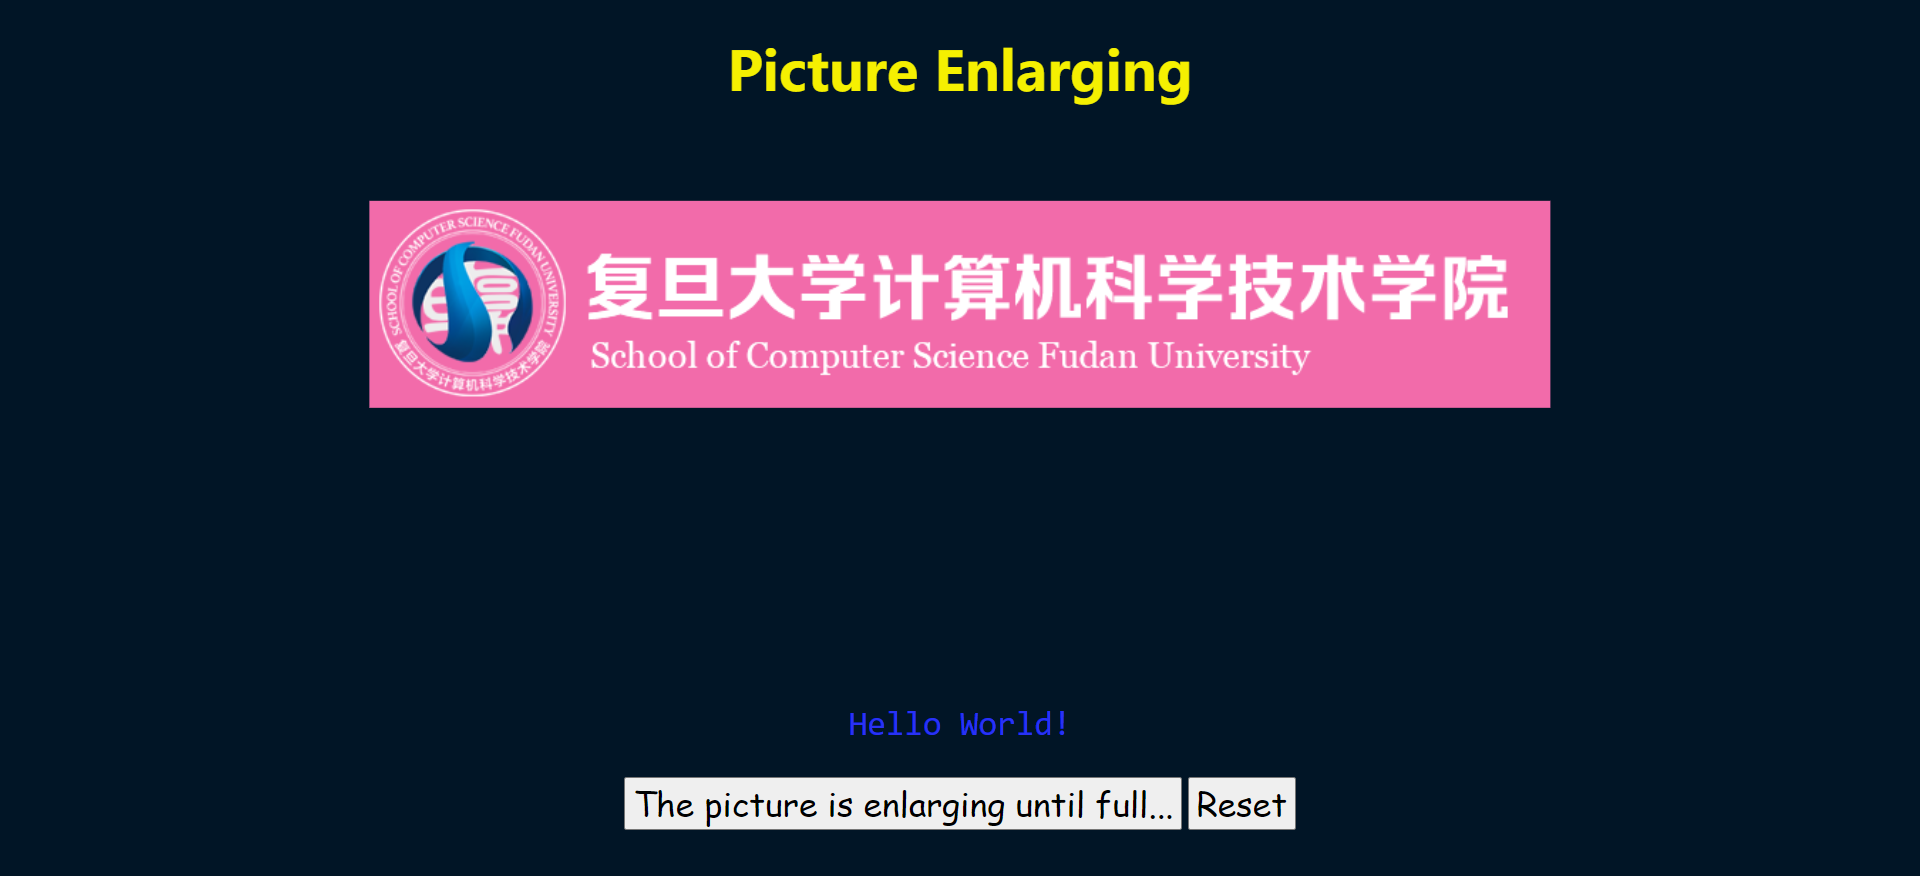
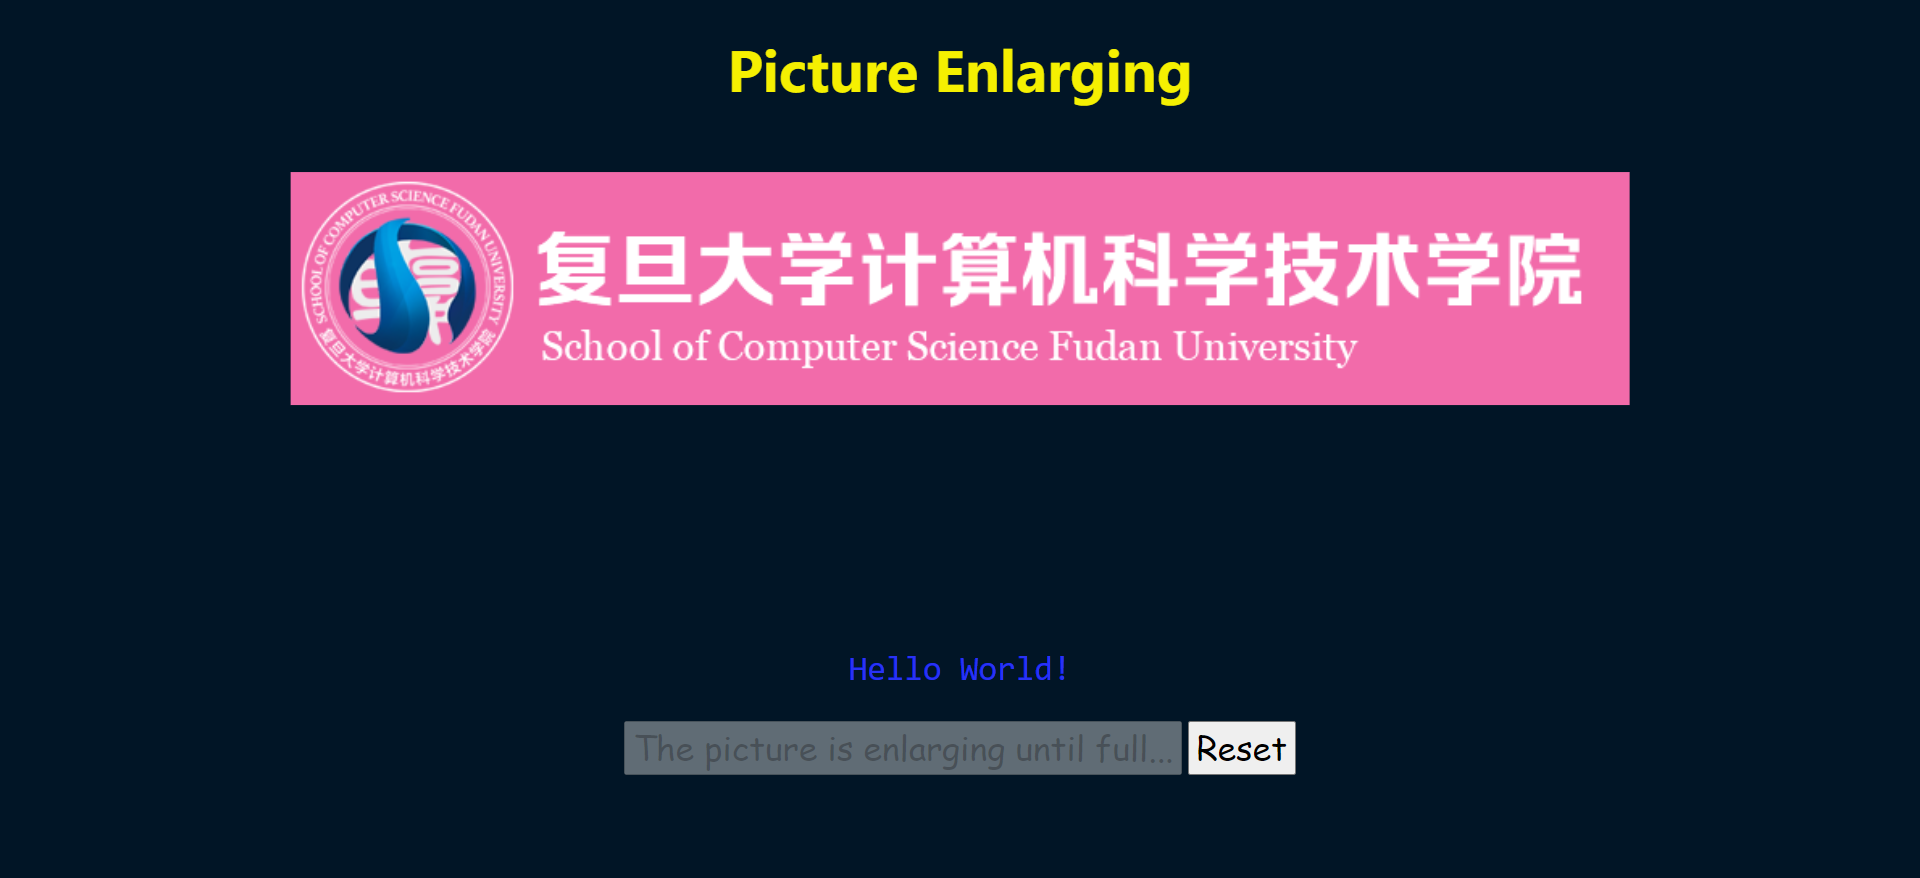
实现了放大时禁用按键的功能;更新README

diff --git a/2.1_enlargingPicture/script.js b/2.1_enlargingPicture/script.js
@@ -1,4 +1,5 @@
 const pic = document.getElementById("pic");
+const enlarge_btn = document.getElementById("enlarge_btn");
 let k = 10;
 // Option 1: x = x0 + k(t - t0)
 // Option 2: ...?
@@ -36,14 +37,15 @@ function enlarging() {
 function resetPic() {
     clearInterval(enlarge_interval_id);
     pic.width = x0;
-    document.getElementById("enlarge_btn").innerText =
-        btn_text_ori;
+    enlarge_btn.innerText = btn_text_ori;
+    enlarge_btn.disabled = "";
 }
 
 function onclickEnlarge() {
     document.getElementById("p2").style.color =
         "#2932F5";
     enlarging();
+    enlarge_btn.disabled = "disabled";
 }
 function onclickReset() {
     resetPic();

diff --git a/2.1_enlargingPicture/theme.css b/2.1_enlargingPicture/theme.css
@@ -5,7 +5,7 @@ h1 {
     color: #F5F001;
 }
 #pic_area {
-    height: 450px;
+    height: 400px;
     padding: 10px;
 }
 #pic {
